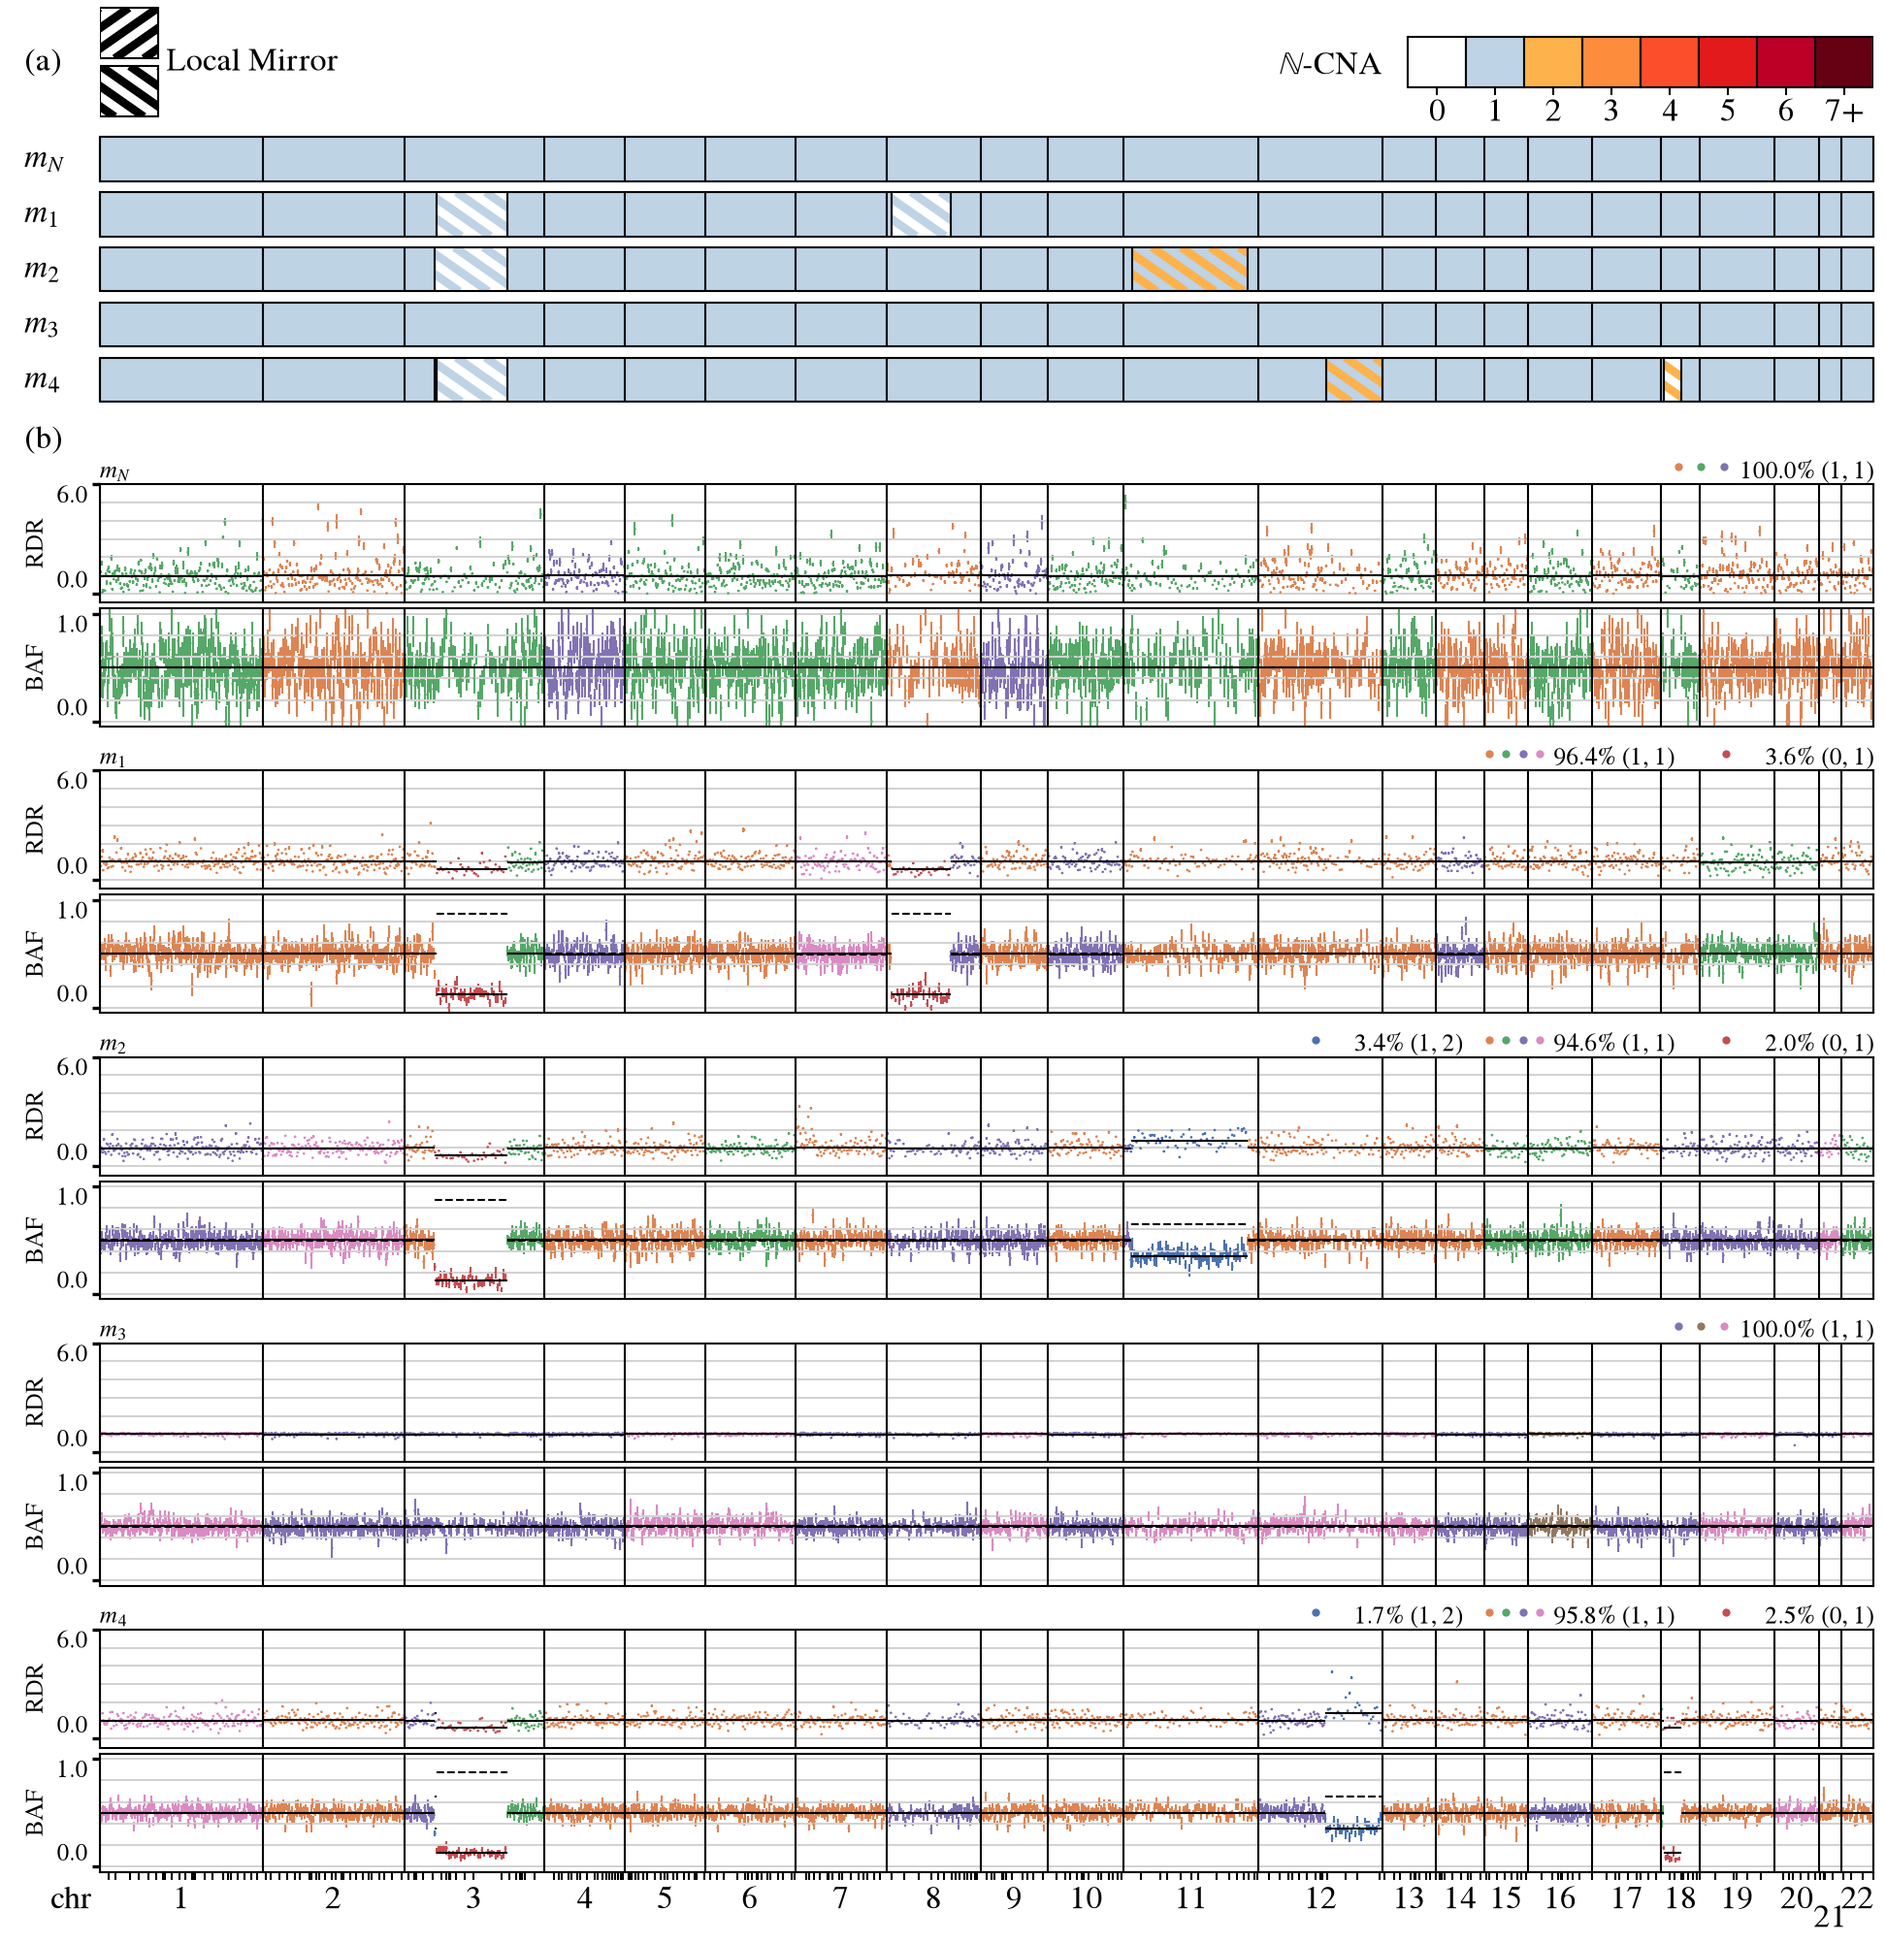
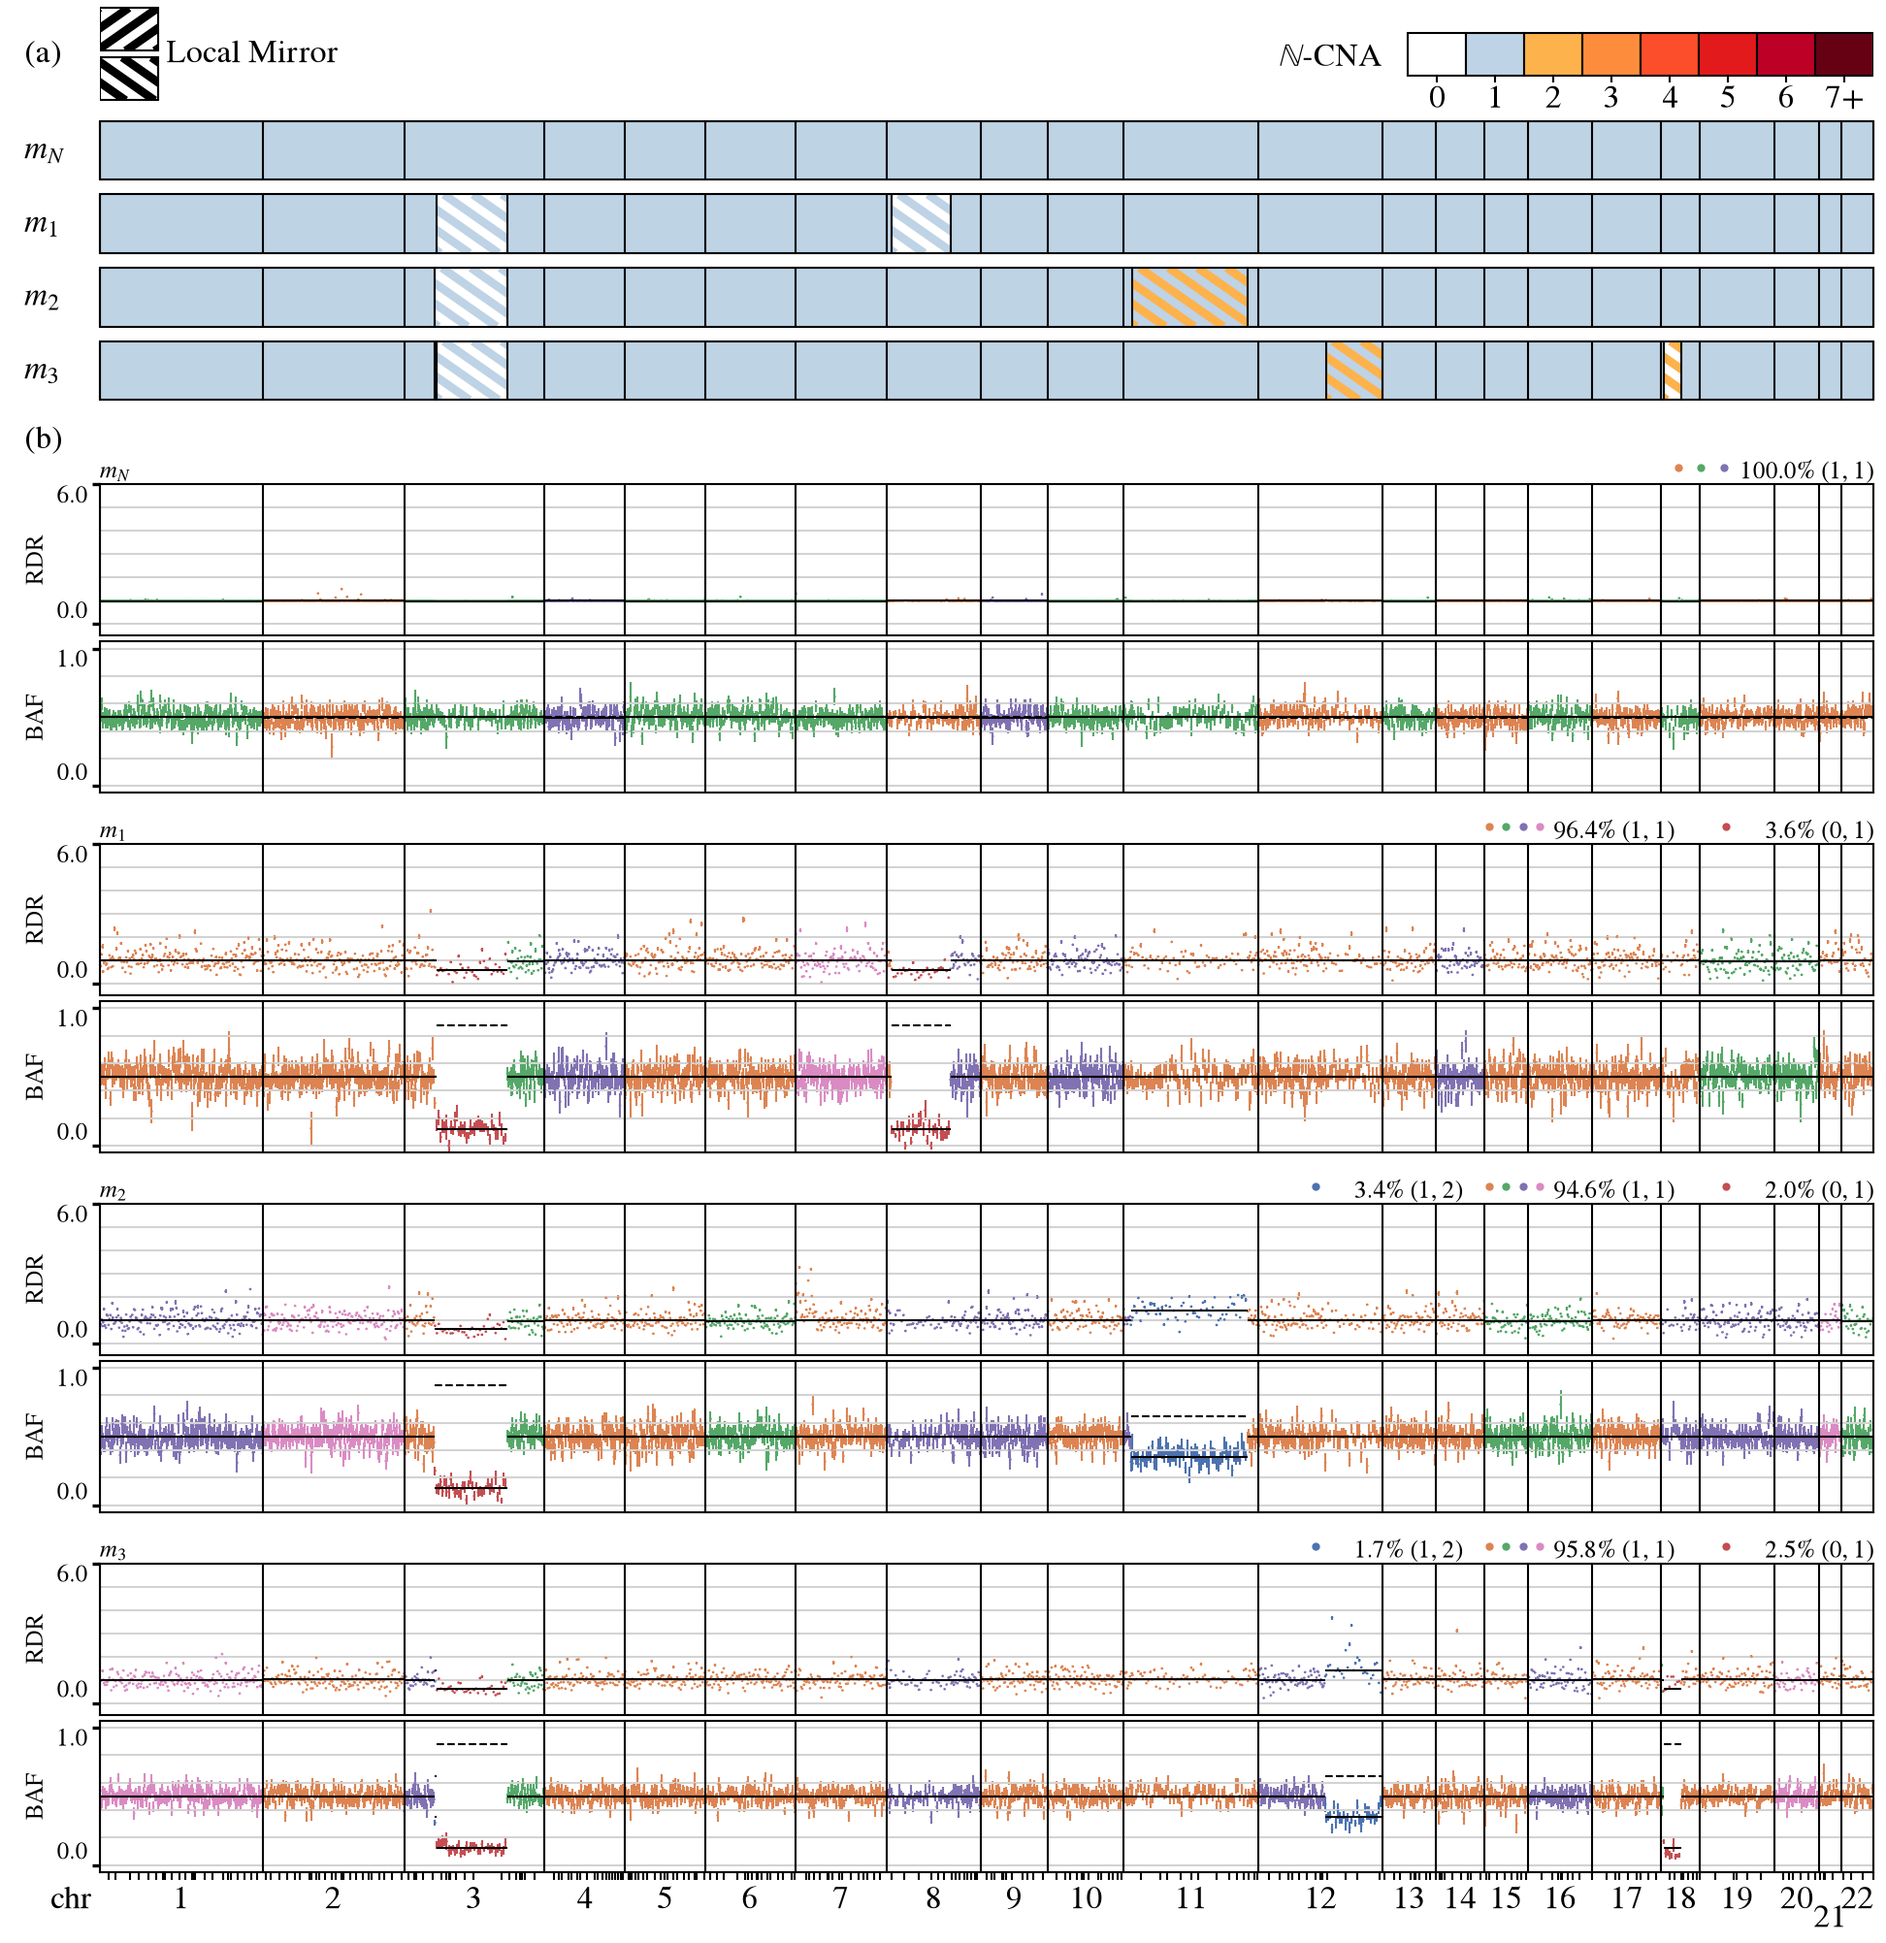
combined.png: integer clones merged and pooled; (a) on the genomic left edge
Rendered at 05419ba (clean) on dev_tree_1s_easy r0 7ba9b01f: the fit's clone
0 (a few spots) and clone 3 (the normal region) decode alike and are now one
m_N, its track pooled from both; m_1-m_3 follow with no gap. truth/ and
compare/ re-render byte-identical. (a)'s letter moves into (b)'s and (c)'s
column in code; the PNG is redrawn after #727's sweep, which holds the host.

Claude-Session: https://claude.ai/code/session_01JXaY8ogGJw3Lo2bAgEaAaH

diff --git a/python/port/extensions/combined_figure.py b/python/port/extensions/combined_figure.py
@@ -1355,10 +1355,12 @@ def combined_figure(
 
     # NB the slide and the clones are one panel here, (a), the clones'
     #    structure as the truth page's tree is: its first letter alone.
+    # NB in (b)'s and (c)'s column, as (a) now starts on their left edge (#745)
+    column = letters[0][0].get_position()[0]
     for text in spatial.texts[:1]:
-        x, y = text.get_position()
+        _, y = text.get_position()
         figure.text(
-            x,
+            column,
             (y * above + tall) / (tall + above),
             text.get_text(),
             fontsize=LABEL_SIZE,

diff --git a/docs/plots/paper/README.md b/docs/plots/paper/README.md
@@ -4,8 +4,8 @@
 0.9335, exact altered (phase-free)
 0.8992 (phased 0.1473), from one
 `run_cnaster_port --sal --png-copies` run on `sim/manifests/dev_tree_1s_easy.toml` r0 at
-code `335971f`: 106 s wall, 3.48 GB peak.
-Ledger `run_id` `335971f-dev_tree_1s_easy_r0-0041` (`docs/metrics/`, fixture `dev_tree_1s_easy_r0` `7ba9b01f`).
+code `05419ba`: 187 s wall, 3.42 GB peak.
+Ledger `run_id` `05419ba-dev_tree_1s_easy_r0-0146` (`docs/metrics/`, fixture `dev_tree_1s_easy_r0` `7ba9b01f`).
 
 Regenerate from a clean tree, so the commit above carries no `+`; it draws r0 into
 `.cache/paper_figures/` where `--draw` is not given, and refuses any r0 not
@@ -15,7 +15,7 @@ hashing to `7ba9b01f`:
 
 `--truth-only` writes `truth/` alone, with no run. The figures carry no stamp
 (#743): every figure here but `solver_combined.png` is `dev_tree_1s_easy` r0 `7ba9b01f` at
-code `335971f`, as above. `run/spatial.png` and `run/combined.png`
+code `05419ba`, as above. `run/spatial.png` and `run/combined.png`
 draw panel (a) on a slide mocked from the planted labels (`port.sim.he_slide`):
 the fixture has no H&E image, and the run never reads the mock.
 `truth/phase.png` is flat: this r0 plants 0 phase switches.
@@ -49,7 +49,7 @@ intervals in `truth/` and the fitted ones in `run/`, so their contig widths diff
 | `compare/copy_confusion.png` | Which (A, B) is each planted pair decoded as? | `confusion_figure`: `port.qa.scoring.copy_confusion` |
 | `compare/copy_genomic_truth_vs_fit.png` | Where along the genome is a matched clone's (A, B) decoded wrong, or swapped? | `genomic_compare_figure`: `score`'s clone-bins |
 | `compare/exact_by_class.png` | Which planted classes are recovered exactly, with and without phase? | `exact_figure`: `port.qa.scoring.exact_by_class` |
-| `pop_combined.png` | How many UMIs does a clone need, how long must a CNA be, how long must a CNA be at each stay probability 1 − t, and how often is a true-(1, 1) segment called altered? | `port.studies.population_report.combined` on `docs/studies/population_summary.json` |
+| `pop_combined.png` | How many UMIs does a clone need, how long must a CNA be, at each stay probability 1 - t, and how often is a true-(1, 1) segment called altered? | `port.studies.population_report.combined` on `docs/studies/population_summary_limited.json` (#745's limited rerun; #746 the full) |
 | `solver_combined.md` | What was `solver_combined.png` drawn from? | `solver_note`: both records' data hashes, their settings and the code |
 | `solver_combined.png` | How far above the best does each spatial solver and each copy-state start end, and how fast? | `solver_figure`: `port.studies.potts_plot.draw`, `port.studies.copy_state_plot.draw` |
 
